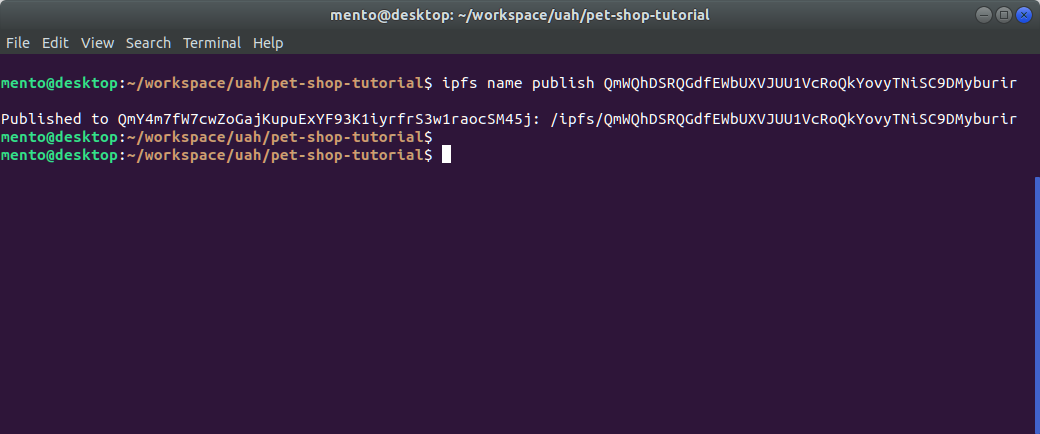
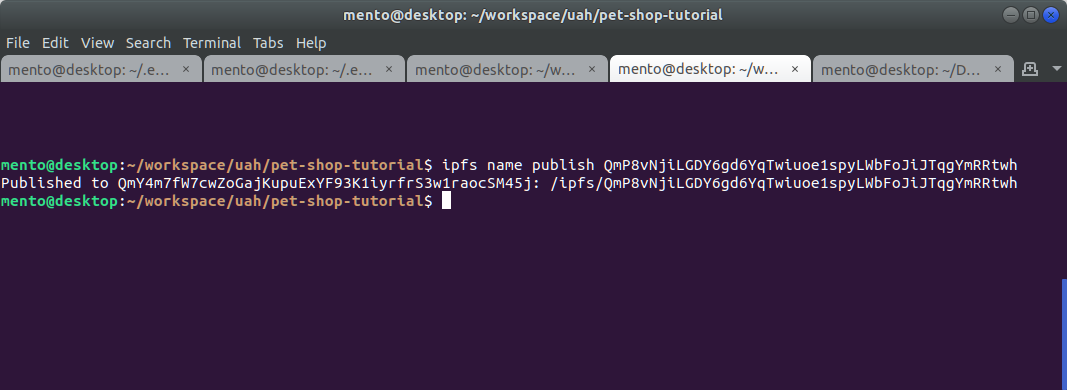
changed webpack

diff --git a/pet-shop-tutorial/dist/index.html b/pet-shop-tutorial/dist/index.html
@@ -1,0 +1,67 @@
+<!DOCTYPE html>
+<html lang="en">
+  <head>
+    <meta charset="utf-8">
+    <meta http-equiv="X-UA-Compatible" content="IE=edge">
+    <meta name="viewport" content="width=device-width, initial-scale=1">
+    <!-- The above 3 meta tags *must* come first in the head; any other head content must come *after* these tags -->
+    <title>UAH-D.Baranowski's Pet Shop </title>
+
+	<!-- Bootstrap -->
+	<link rel="stylesheet" href="https://stackpath.bootstrapcdn.com/bootstrap/4.1.3/css/bootstrap.min.css" integrity="sha384-MCw98/SFnGE8fJT3GXwEOngsV7Zt27NXFoaoApmYm81iuXoPkFOJwJ8ERdknLPMO" crossorigin="anonymous">
+    <!--<link href="css/bootstrap.min.css" rel="stylesheet"> -->
+
+    <!-- HTML5 shim and Respond.js for IE8 support of HTML5 elements and media queries -->
+    <!-- WARNING: Respond.js doesn't work if you view the page via file:// -->
+    <!--[if lt IE 9]>
+      <script src="https://oss.maxcdn.com/html5shiv/3.7.3/html5shiv.min.js"></script>
+      <script src="https://oss.maxcdn.com/respond/1.4.2/respond.min.js"></script>
+    <![endif]-->
+  </head>
+  <body>
+    <div class="container">
+      <div class="row">
+        <div class="col-xs-12 col-sm-8 col-sm-push-2">
+          <h1 class="text-center">UAH-D.Baranowski's Pet Shop</h1>
+          <hr/>
+          <br/>
+        </div>
+      </div>
+
+      <div id="petsRow" class="row">
+        <!-- PETS LOAD HERE -->
+      </div>
+    </div>
+
+    <div id="petTemplate" style="display: none;">
+      <div class="col-sm-6 col-md-4 col-lg-3">
+        <div class="panel panel-default panel-pet">
+          <div class="panel-heading">
+            <h3 class="panel-title">Scrappy</h3>
+          </div>
+          <div class="panel-body">
+            <img alt="140x140" data-src="holder.js/140x140" class="img-rounded img-center" style="width: 100%;" src="https://animalso.com/wp-content/uploads/2017/01/Golden-Retriever_6.jpg" data-holder-rendered="true">
+            <br/><br/>
+            <strong>Breed</strong>: <span class="pet-breed">Golden Retriever</span><br/>
+            <strong>Age</strong>: <span class="pet-age">3</span><br/>
+            <strong>Location</strong>: <span class="pet-location">Warren, MI</span><br/><br/>
+            <button class="btn btn-default btn-adopt" type="button" data-id="0">Adopt</button>
+          </div>
+        </div>
+      </div>
+    </div>
+
+    <!-- jQuery (necessary for Bootstrap's JavaScript plugins) -->
+    <script src="https://ajax.googleapis.com/ajax/libs/jquery/1.12.4/jquery.min.js"></script>
+	<!-- Include all compiled plugins (below), or include individual files as needed -->
+	<script src="https://stackpath.bootstrapcdn.com/bootstrap/4.1.3/js/bootstrap.min.js" integrity="sha384-ChfqqxuZUCnJSK3+MXmPNIyE6ZbWh2IMqE241rYiqJxyMiZ6OW/JmZQ5stwEULTy" crossorigin="anonymous"></script>
+	<script src="https://cdn.jsdelivr.net/gh/ethereum/web3.js/dist/web3.min.js" crossorigin="anonymous"></script>
+	<script src="https://cdn.jsdelivr.net/npm/truffle-contract@3.0.5/dist/truffle-contract.min.js" crossorigin="anonymous"></script>
+	<!--
+    <script src="js/bootstrap.min.js"></script>
+	<script src="js/web3.min.js"></script>
+    <script src="js/truffle-contract.js"></script>
+	-->
+	<script src="build.js"></script>
+  </body>
+</html>

diff --git a/pet-shop-tutorial/webpack.config.js b/pet-shop-tutorial/webpack.config.js
@@ -1,19 +1,27 @@
 const path = require('path')
+const json1 = require('build/contracts/Adoption.json');
+const json2 = require('build/contracts/Migration.json');
 
 module.exports = {
 	entry: path.join(__dirname, 'src/js', 'app.js'), 
 	output: {
-	filename: 'build.js',
-	path: path.join(__dirname, 'dist')
-},
-module: {
-   rules: [{
-	  test: /\.css$/, // To load the css in react
-	  use: ['style-loader', 'css-loader'],
-	  include: [
-		path.resolve(__dirname, "src/"),
-		path.resolve(__dirname, "build/contracts/")
-	  ]
-   }]
-}
+		filename: 'build.js',
+		path: path.join(__dirname, 'dist')
+	},
+	module: {
+		rules: [{
+			test: /\.css$/,
+			use: ['style-loader', 'css-loader'],
+			include: [
+				path.resolve(__dirname, "src/"),
+				path.resolve(__dirname, "build/contracts/")
+			]
+		}],
+		loaders: [
+			{
+			test: /\.json$/,
+			loader: 'json-loader'
+			}
+		]   
+	}
 }

diff --git a/pec2/ej2/pec2-ej2.md b/pec2/ej2/pec2-ej2.md
@@ -99,7 +99,7 @@ ipfs add -r dist/
 
 
 El hash obtenido de ipfs, es el siguiente:
-**QmWQhDSRQGdfEWbUXVJUU1VcRoQkYovyTNiSC9DMyburir**
+**QmP8vNjiLGDY6gd6YqTwiuoe1spyLWbFoJiJTqgYmRRtwh**
 
 Con eso, nuestro contenido quedo incorporado en la red de ipfs. 
 
@@ -109,7 +109,7 @@ Para publicar el proyecto en ipfs, hay que ingresar el siguiente comando:
 
 ```
 # Se utiliza el hash obtenido el paso anterior
-ipfs name publish QmWQhDSRQGdfEWbUXVJUU1VcRoQkYovyTNiSC9DMyburir
+ipfs name publish QmP8vNjiLGDY6gd6YqTwiuoe1spyLWbFoJiJTqgYmRRtwh
 ```
 
 Luego de ejecutado el comando, se obtiene lo siguiente:
